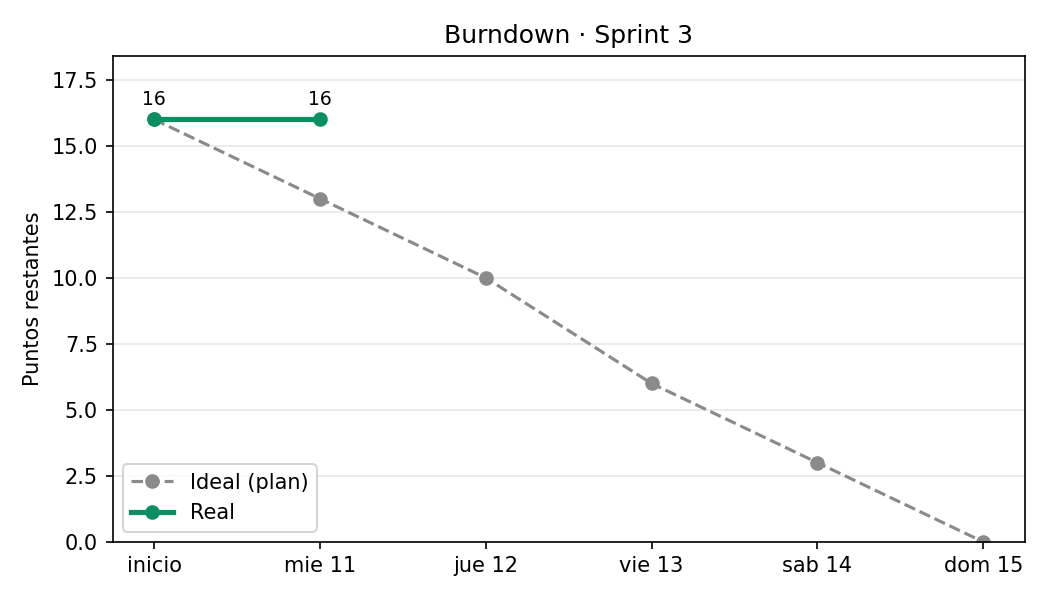
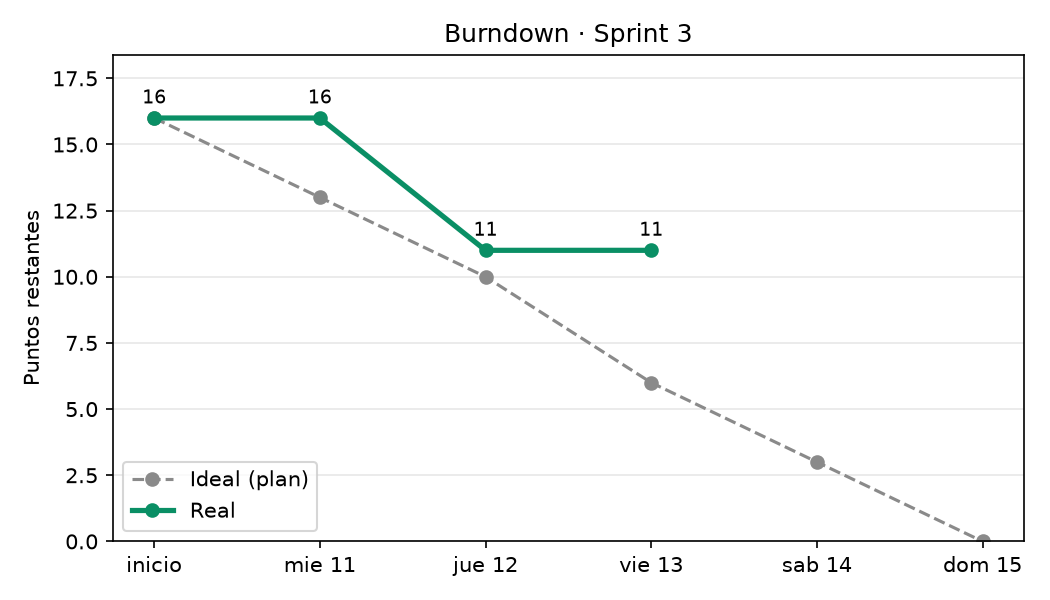
docs(scrum): Burndown del Sprint 3 al 13 nov

diff --git a/docs/scrum/sprints.md b/docs/scrum/sprints.md
@@ -97,8 +97,8 @@ lo revisa Maria y cuando Maria es piloto lo revisa Daniel.
 
 | # | Historia (tarjeta de Trello) | Rama | Pareja (piloto + copiloto) | Revisor PR | Fecha límite | PR | Merge | Puntos | Estado |
 |---|---|---|---|---|---|---|---|---|---|
-| 8 | P1 · Sol call queue | `feature/t8-sol-cola-llamadas` | Michelle + Daniel | Maria | jue 12 nov | #15 | – | 5 | QA |
-| 9 | P2 · End to end validation | `feature/t9-pruebas-e2e` | Maria + Michelle | Daniel | vie 13 nov | – | – | 3 | To do |
+| 8 | P1 · Sol call queue | `feature/t8-sol-cola-llamadas` | Michelle + Daniel | Maria | jue 12 nov | #15 | 12 nov 15:57 | 5 | Done |
+| 9 | P2 · End to end validation | `feature/t9-pruebas-e2e` | Maria + Michelle | Daniel | vie 13 nov | – | – | 3 | To do (atrasada) |
 | 10 | P3 · Post deployment monitoring | `feature/t10-monitoreo-psi` | Daniel + Maria | Michelle | sáb 14 nov | – | – | 5 | To do |
 | 11 | P4 · Release v1.0 | `docs/cierre-sprint3` | Michelle + Daniel | Maria | dom 15 nov | – | – | 3 | In progress |
 
@@ -114,7 +114,7 @@ lo revisa Maria y cuando Maria es piloto lo revisa Daniel.
 |---|---|---|---|---|
 | 0 | inicio | 16 | 16 | Sprint Planning 3: 4 historias, 16 puntos |
 | 1 | mié 11 | 13 | 16 | P1 terminado en rama y PR #15 abierto; el CI no arrancó por un incidente de GitHub Actions |
-| 2 | jue 12 | 10 | | |
-| 3 | vie 13 | 6 | | |
+| 2 | jue 12 | 10 | 11 | P1 fusionado (PR #15, 15:57), el mismo día de su fecha límite |
+| 3 | vie 13 | 6 | 11 | Sin merges: P2 no arrancó en su fecha límite |
 | 4 | sáb 14 | 3 | | |
 | 5 | dom 15 | 0 | | |
